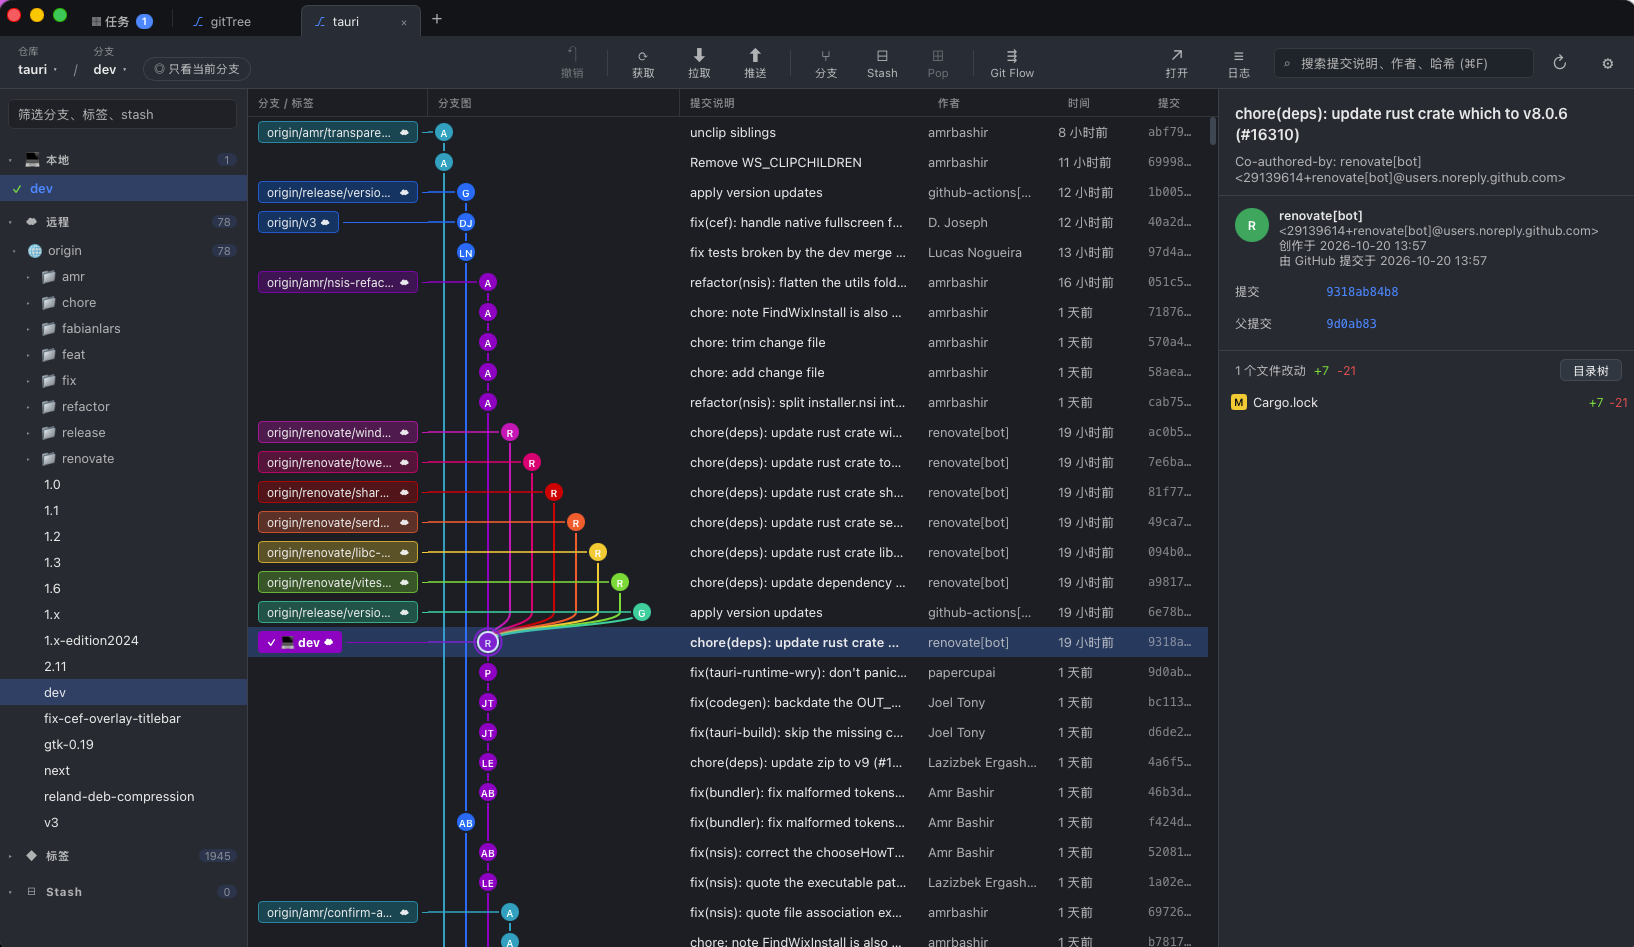
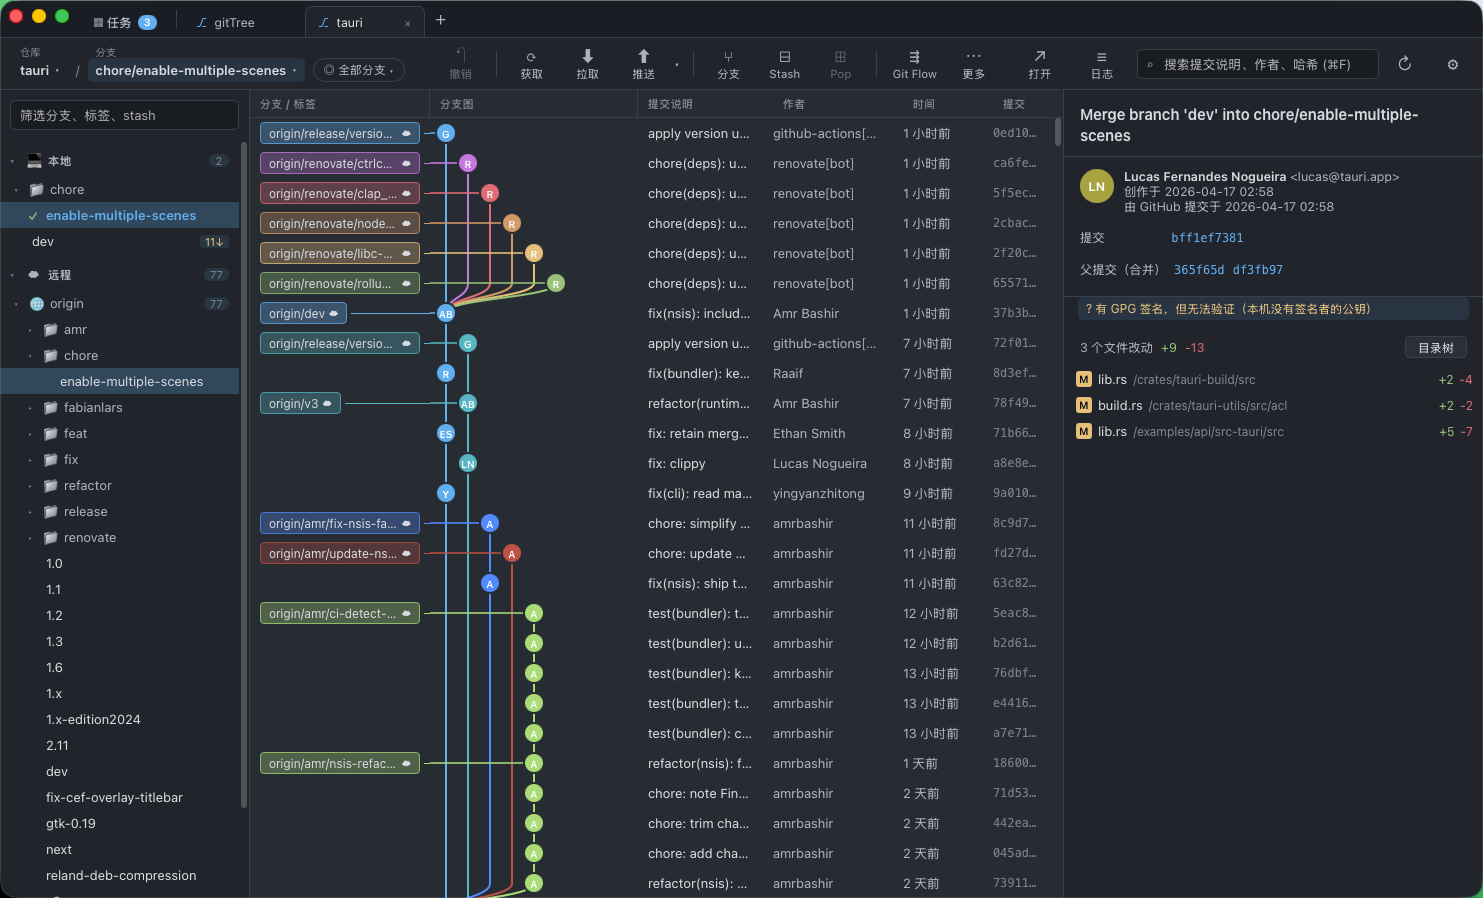
README：换成新版截图，加上设置窗口截图

diff --git a/README.md b/README.md
@@ -97,6 +97,11 @@ Get the latest installer from the [**Releases page**](https://github.com/ADroidC
 - **English and Chinese UI** — follows the system language; switch any time in Settings (⚙).
 - **Automatic updates** — GitTree checks GitHub Releases in the background and installs new versions in one click. Updates are signed and verified before installing.
 
+<p align="center">
+  <img src="docs/settings-theme.png" alt="Settings: color themes" width="49%">
+  <img src="docs/settings-notify.png" alt="Settings: reminders" width="49%">
+</p>
+
 ### Task board
 A global Kanban board (to do / in progress / review / done, columns customizable) with assignees, priorities, due dates and checklists. Finished tasks are archived automatically after a configurable number of days and stay searchable. Tasks can be linked to a repository and branch. Data is stored locally and never written into your repositories.
 

diff --git a/README.zh-CN.md b/README.zh-CN.md
@@ -97,6 +97,11 @@
 - **中英文界面**：默认跟随系统语言，可以在设置（⚙）里随时切换。
 - **自动更新**：后台检查 GitHub Release，有新版本时一键安装。更新包带签名，安装前会校验。
 
+<p align="center">
+  <img src="docs/settings-theme.png" alt="设置：配色主题" width="49%">
+  <img src="docs/settings-notify.png" alt="设置：提醒与通知" width="49%">
+</p>
+
 ### 任务面板
 全局的看板（待办 / 进行中 / 待验证 / 已完成，列可以自定义），可以设负责人、优先级、截止日期和检查项，也可以关联仓库和分支。完成的任务按设定的天数自动归档，归档后仍然可以搜索和恢复。数据保存在本机，不会写进仓库。
 
